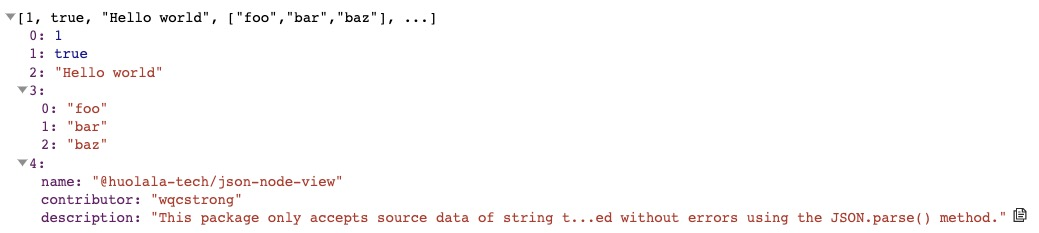
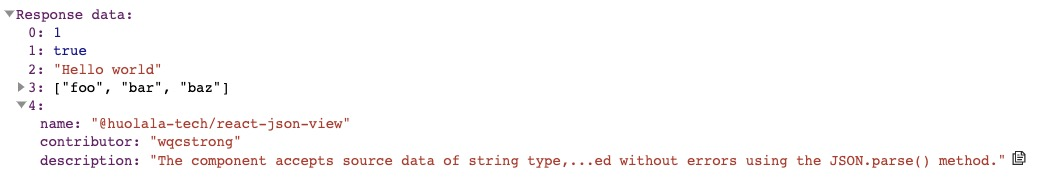
doc: update README

diff --git a/labs/App.tsx b/labs/App.tsx
@@ -10,7 +10,7 @@ const data = JSON.stringify([
     name: '@huolala-tech/react-json-view',
     contributor: 'wqcstrong',
     description:
-      'This package only accepts source data of string type, which means you need to ensure that the data passed in is valid JSON string and can be parsed without errors using the JSON.parse() method.',
+      'The component accepts source data of string type, which means you need to ensure that the data passed in is valid JSON string and can be parsed without errors using the JSON.parse() method.',
   },
 ]);
 

diff --git a/README_ZH.md b/README_ZH.md
@@ -1,0 +1,93 @@
+[Engligh](./README.md) | 中文
+
+## @huolala-tech/react-json-view
+
+`<ReactJsonView />` 是一个用于展示 JSON 数据的 React 组件。
+
+该组件接受 `string` 类型的源数据，这意味着你需要确保传入的数据是有效的 JSON 字符串，并且可以使用 `JSON.parse()` 方法正确解析。否则，数据将在被处理之前转换为 `string` 类型。
+
+## 安装
+
+```bash
+# Yarn
+yarn add @huolala-tech/react-json-view
+
+# NPM
+npm install @huolala-tech/react-json-view
+
+# pnpm
+pnpm install @huolala-tech/react-json-view
+```
+
+## 使用方式
+
+```tsx
+imoprt React from 'react';
+import ReactDOM from 'react-dom';
+
+import ReactJsonView from '@huolala-tech/react-json-view';
+import '@huolala-tech/react-json-view/dist/style.css';
+
+const data = JSON.stringify([
+  1,
+  true,
+  "Hello world",
+  ["foo", "bar", "baz"],
+  {
+    name: "@huolala-tech/react-json-view",
+    contributor: "wqcstrong",
+    description: 'The component accepts source data of *string* type, which means you need to ensure that the data passed in is valid JSON string and can be parsed without errors using the `JSON.parse()` method.',
+  },
+]);
+
+const App = () => {
+  return (
+    <div id="app">
+      <ReactJsonView
+        source={data}
+        rootLabel="Response data"
+        keyCount={200}
+        defaultExpand={false}
+        maxTitleSize={100}
+      />
+    </div>
+  );
+};
+
+ReactDOM.render(
+  <React.StrictMode>
+    <App />
+  </React.StrictMode>,
+  document.getElementById('root') as HTMLElement
+)
+```
+
+此时你应该可以看到如下界面:
+
+![Main](/screenshots/expand.jpg)
+
+## 配置
+
+默认配置下的使用方式:
+
+```tsx
+<ReactJsonView
+  source={data}
+  rootLabel=""
+  defaultExpand={false}
+  keyCount={200}
+  maxTitleSize={100}
+/>
+```
+
+| 配置项  | 类型            | 默认值 | 释义                                |
+| --------------- | ----------------- | ------------- | ------------------------------------------------ |
+| `source`        | `string`          | 无默认值       | JSON 数据。                      |
+| `rootLabel`     | `React.ReactNode` | `""`          | 根节点的标题名称                          |
+| `defaultExpand` | `boolean`         | `false`       | 是否展开面板               |
+| `keyCount`      | `number / "all"`        | `200`                                            | `ReactJsonView` 支持延迟加载更多属性。 该参数表示一次显示多少个属性，您可以传递 `"all"` 以显示所有属性。 |
+| `maxTitleSize`  | `number`          | `100`         | 折叠时缩写标题的最大长度。 |
+
+## License
+
+[MIT](https://opensource.org/licenses/MIT)

diff --git a/README.md b/README.md
@@ -1,8 +1,10 @@
+Engligh | [中文](./README_ZH.md)
+
 ## @huolala-tech/react-json-view
 
 `<ReactJsonView />` is a React component for displaying JSON data.
 
-This package accepts source data of *string* type, which means you need to ensure that the data passed in is valid JSON string and can be parsed without errors using the `JSON.parse()` method. Otherwise, the data will be converted to a *string* type before being processed.
+The component accepts source data of *string* type, which means you need to ensure that the data passed in is valid JSON string and can be parsed without errors using the `JSON.parse()` method. Otherwise, the data will be converted to a *string* type before being processed.
 
 ## Install
 
@@ -34,7 +36,7 @@ const data = JSON.stringify([
   {
     name: "@huolala-tech/react-json-view",
     contributor: "wqcstrong",
-    description: 'This package accepts source data of *string* type, which means you need to ensure that the data passed in is valid JSON string and can be parsed without errors using the `JSON.parse()` method.',
+    description: 'The component accepts source data of *string* type, which means you need to ensure that the data passed in is valid JSON string and can be parsed without errors using the `JSON.parse()` method.',
   },
 ]);
 
@@ -43,6 +45,7 @@ const App = () => {
     <div id="app">
       <ReactJsonView
         source={data}
+        rootLabel="Response data"
         keyCount={200}
         defaultExpand={false}
         maxTitleSize={100}
